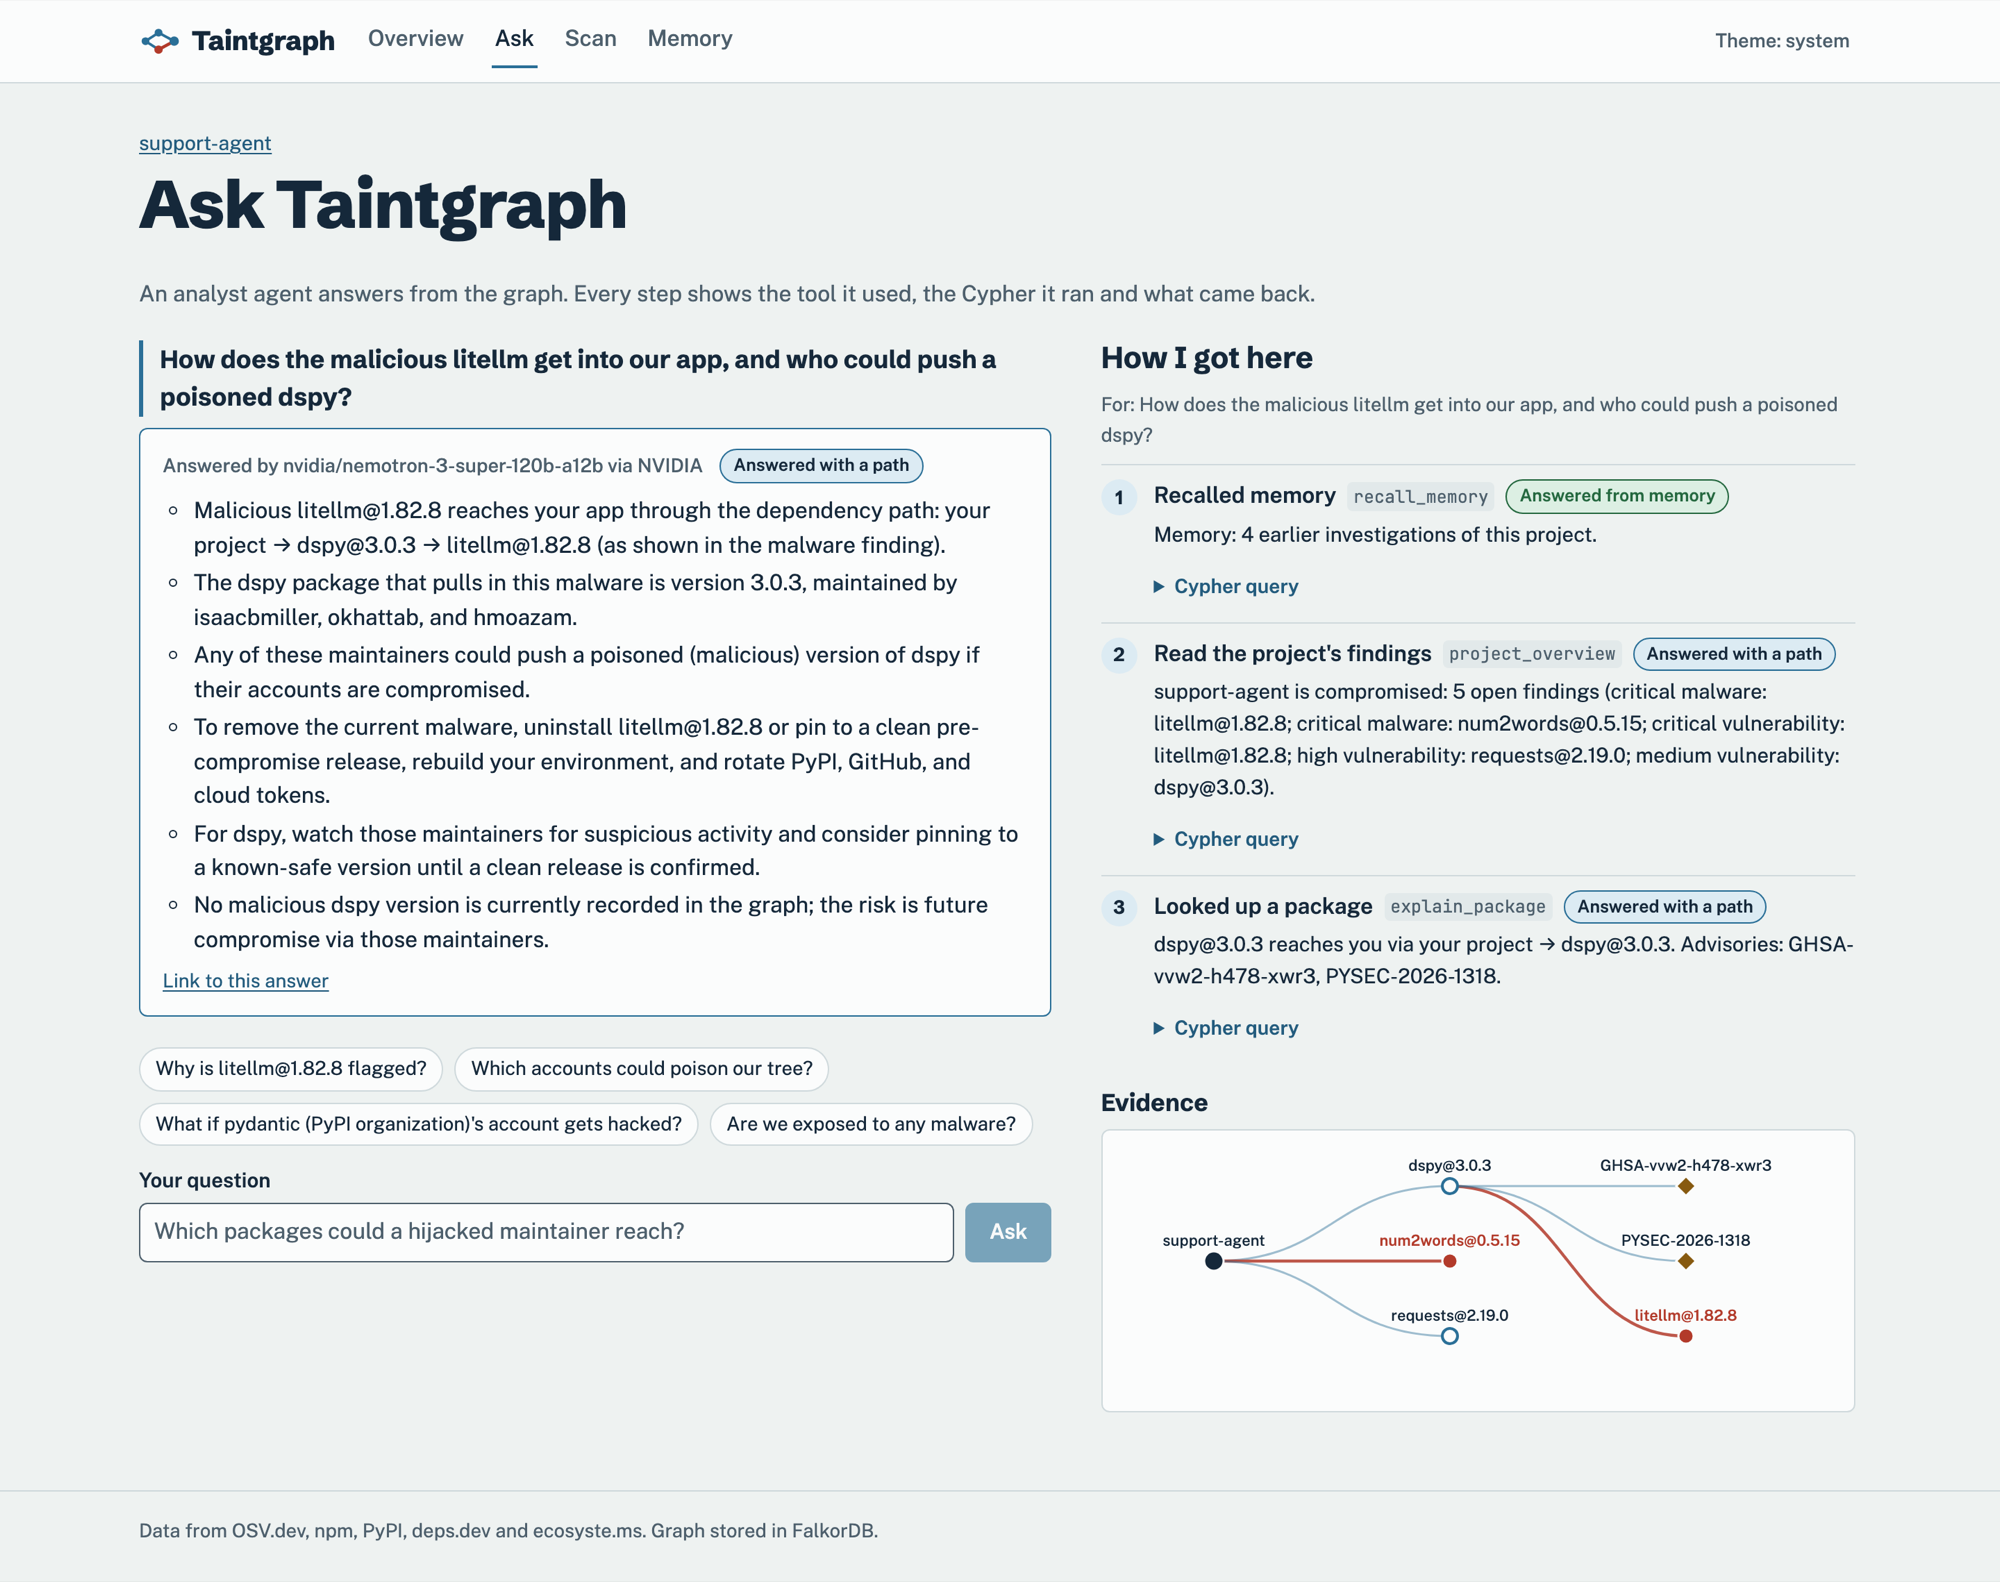
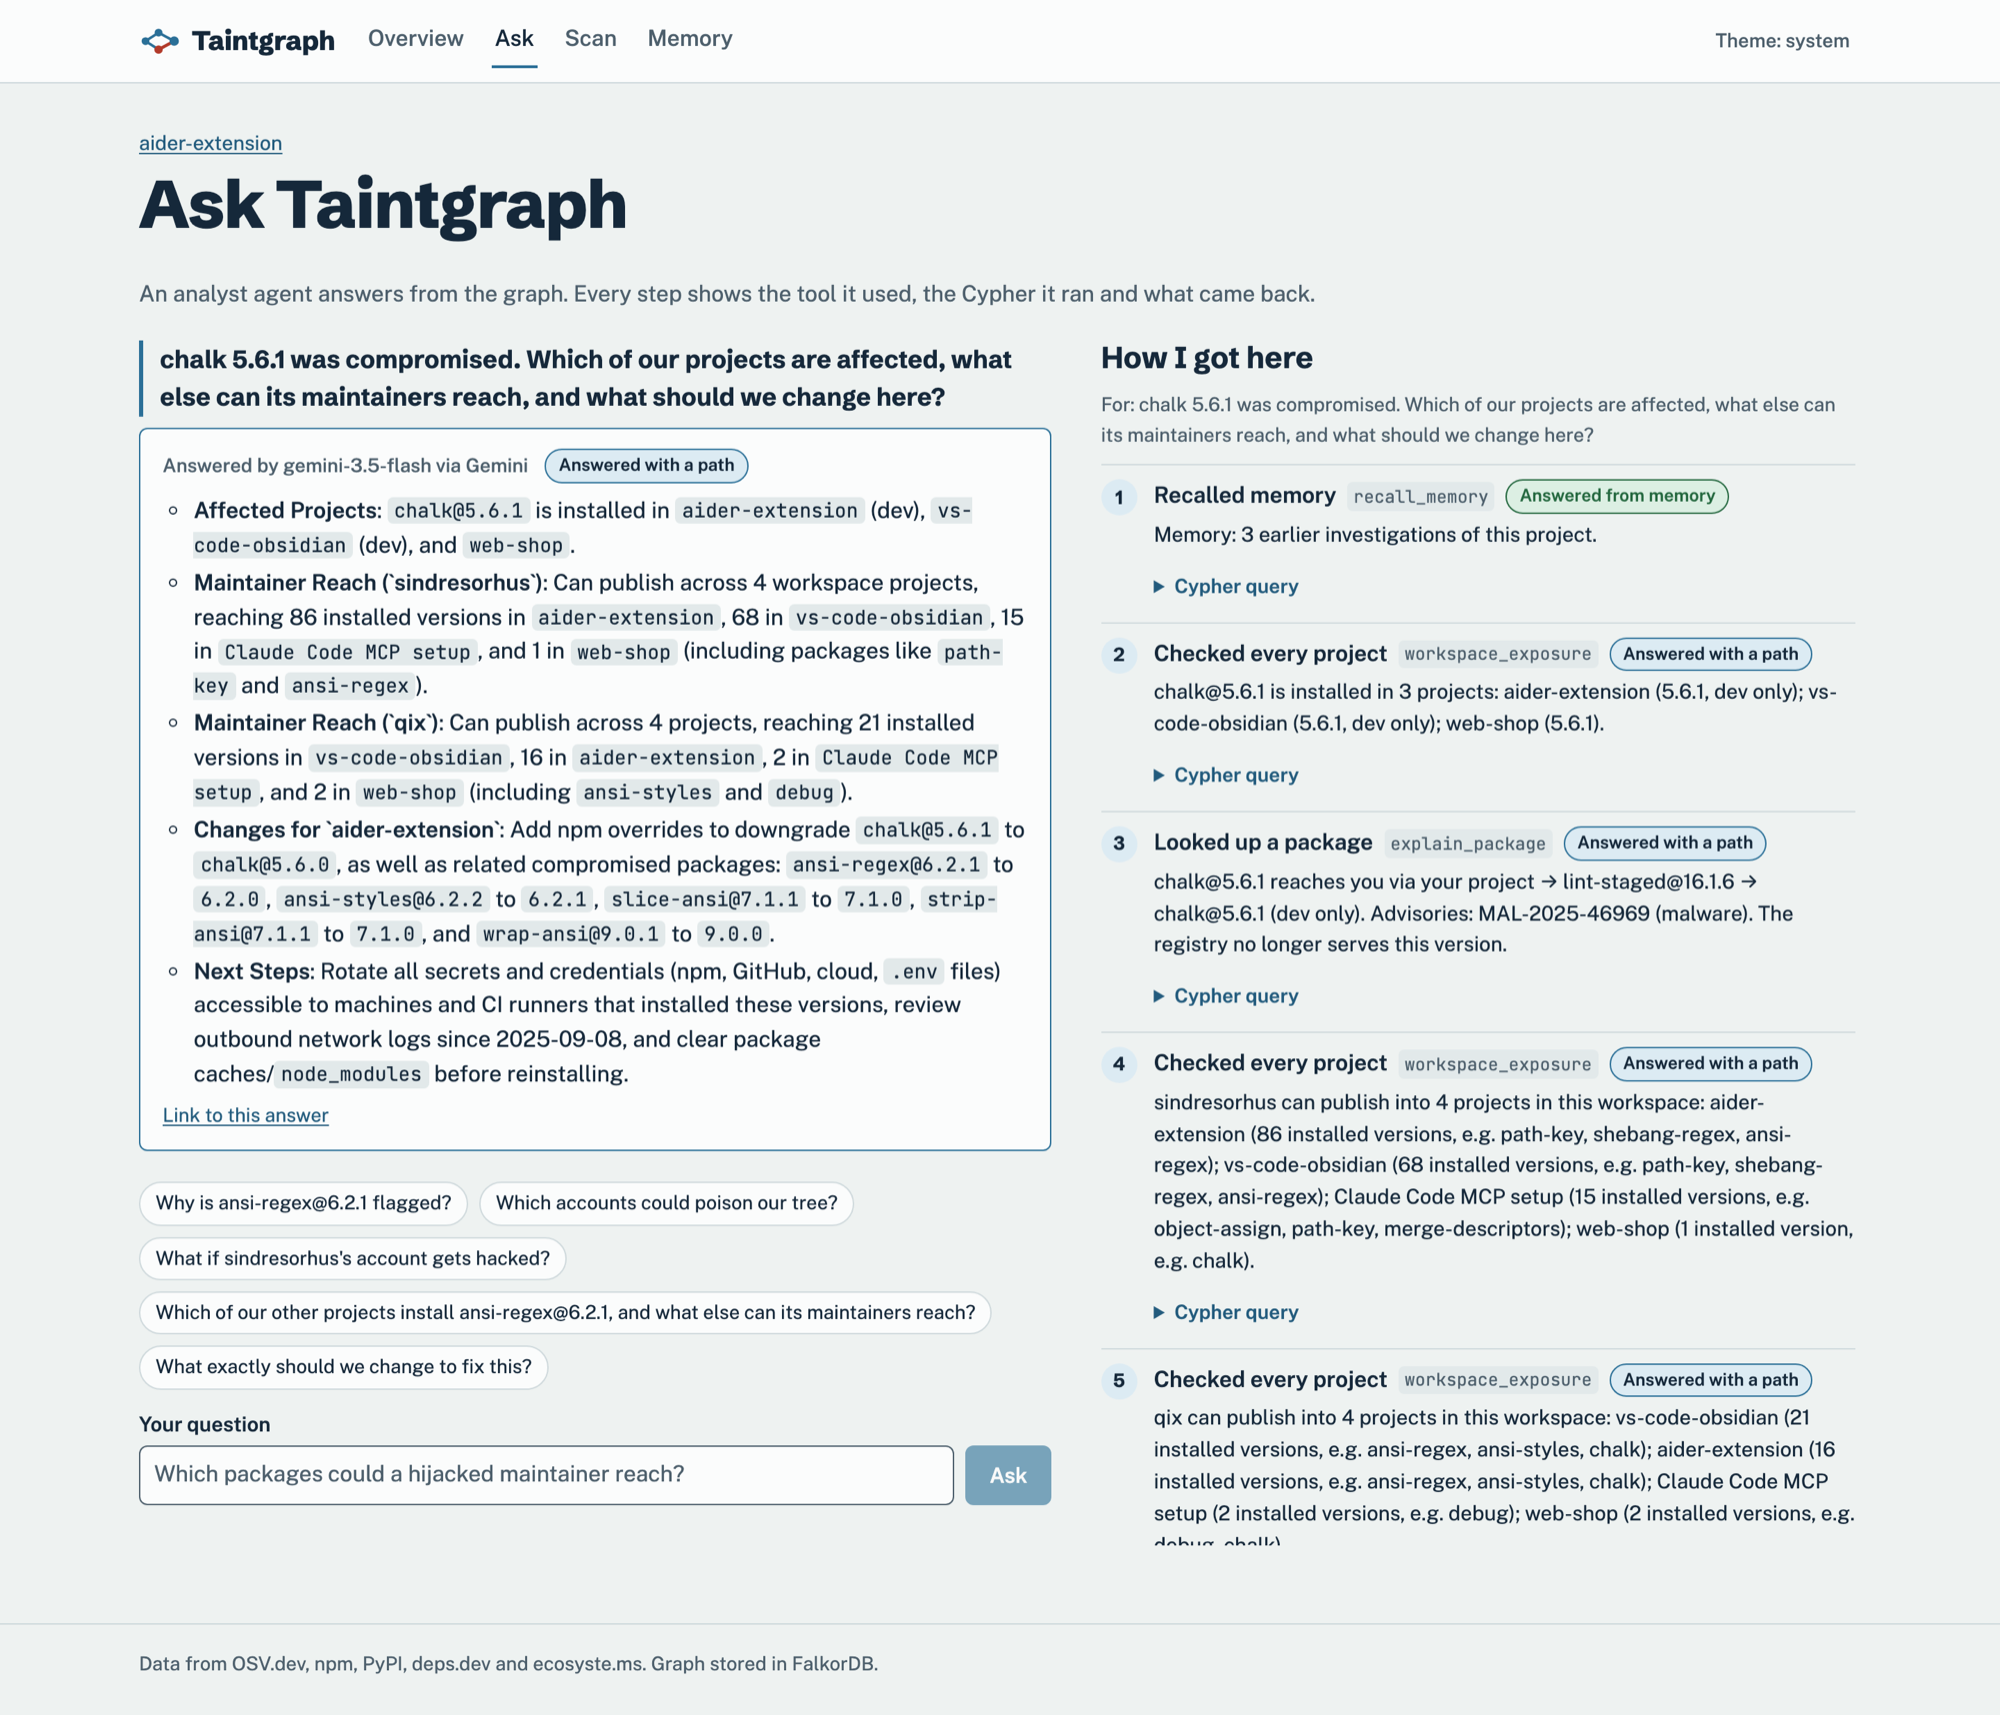
Update Ask screenshot

diff --git a/README.md b/README.md
@@ -58,7 +58,7 @@ Those are graph questions. Taintgraph loads the lockfile into FalkorDB: every in
 
 **Answers questions, and shows its work.** An Analyst agent uses fixed, read-only Cypher tools. Every step shows the tool, the query and what came back, and the evidence subgraph is drawn. Answers that name anything the graph didn't return are rebuilt from the graph.
 
-<img src="docs/screenshots/ask.png" alt="The Analyst traces litellm through dspy and names who could publish a poisoned dspy" />
+<img src="docs/screenshots/ask.png" alt="Gemini, through Taintgraph's tools: chalk@5.6.1 is in three projects, its maintainers can publish into four, and the exact overrides to change" />
 
 </td>
 <td valign="top">
